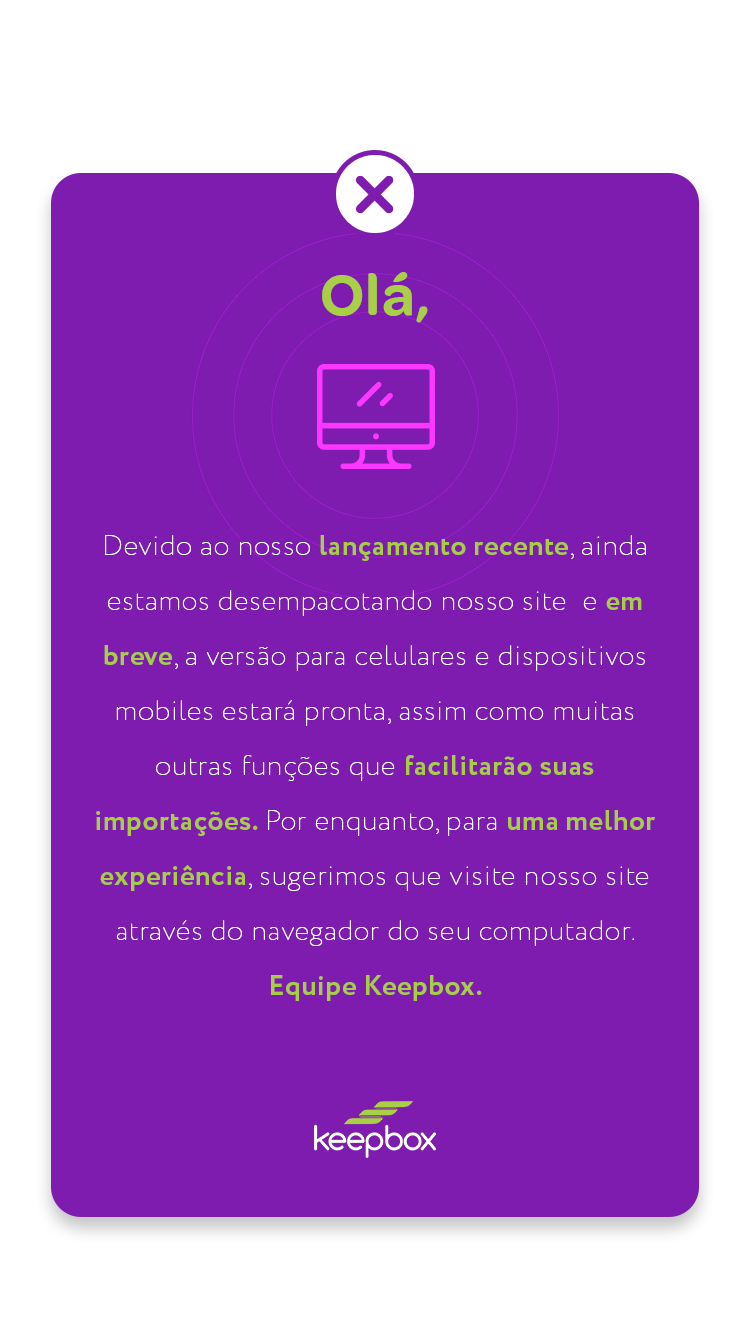
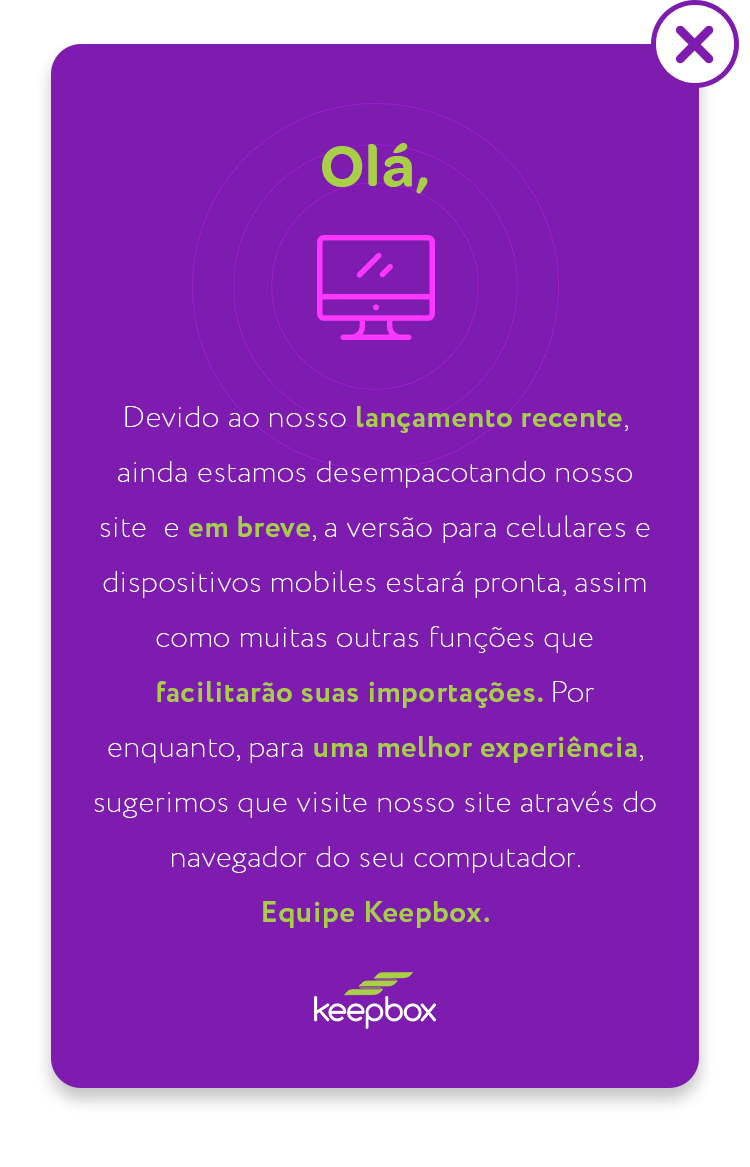
ajustes

diff --git a/public/assets/metronic/custom/css/Website/Home/HomePage.css b/public/assets/metronic/custom/css/Website/Home/HomePage.css
@@ -453,8 +453,8 @@ body{
     width: 290px;
     background-position-y:  center;
 
-    -webkit-appearance: none;  /* Remove estilo padrÃƒÆ’Ã†â€™Ãƒâ€ Ã¢â‚¬â„¢ÃƒÆ’Ã¢â‚¬Å¡Ãƒâ€šÃ‚Â£o do Chrome */
-    -moz-appearance: none; /* Remove estilo padrÃƒÆ’Ã†â€™Ãƒâ€ Ã¢â‚¬â„¢ÃƒÆ’Ã¢â‚¬Å¡Ãƒâ€šÃ‚Â£o do FireFox */
+    -webkit-appearance: none;  /* Remove estilo padrÃƒÆ’Ã†â€™Ãƒâ€ Ã¢â‚¬â„¢ÃƒÆ’Ã¢â‚¬Â ÃƒÂ¢Ã¢â€šÂ¬Ã¢â€žÂ¢ÃƒÆ’Ã†â€™ÃƒÂ¢Ã¢â€šÂ¬Ã…Â¡ÃƒÆ’Ã¢â‚¬Å¡Ãƒâ€šÃ‚Â£o do Chrome */
+    -moz-appearance: none; /* Remove estilo padrÃƒÆ’Ã†â€™Ãƒâ€ Ã¢â‚¬â„¢ÃƒÆ’Ã¢â‚¬Â ÃƒÂ¢Ã¢â€šÂ¬Ã¢â€žÂ¢ÃƒÆ’Ã†â€™ÃƒÂ¢Ã¢â€šÂ¬Ã…Â¡ÃƒÆ’Ã¢â‚¬Å¡Ãƒâ€šÃ‚Â£o do FireFox */
     appearance: none
 }
 
@@ -462,8 +462,8 @@ body{
     height: 56px;
     width: 167px;
     float: left;
-    -webkit-appearance: none;  /* Remove estilo padrÃƒÆ’Ã†â€™Ãƒâ€ Ã¢â‚¬â„¢ÃƒÆ’Ã¢â‚¬Å¡Ãƒâ€šÃ‚Â£o do Chrome */
-    -moz-appearance: none; /* Remove estilo padrÃƒÆ’Ã†â€™Ãƒâ€ Ã¢â‚¬â„¢ÃƒÆ’Ã¢â‚¬Å¡Ãƒâ€šÃ‚Â£o do FireFox */
+    -webkit-appearance: none;  /* Remove estilo padrÃƒÆ’Ã†â€™Ãƒâ€ Ã¢â‚¬â„¢ÃƒÆ’Ã¢â‚¬Â ÃƒÂ¢Ã¢â€šÂ¬Ã¢â€žÂ¢ÃƒÆ’Ã†â€™ÃƒÂ¢Ã¢â€šÂ¬Ã…Â¡ÃƒÆ’Ã¢â‚¬Å¡Ãƒâ€šÃ‚Â£o do Chrome */
+    -moz-appearance: none; /* Remove estilo padrÃƒÆ’Ã†â€™Ãƒâ€ Ã¢â‚¬â„¢ÃƒÆ’Ã¢â‚¬Â ÃƒÂ¢Ã¢â€šÂ¬Ã¢â€žÂ¢ÃƒÆ’Ã†â€™ÃƒÂ¢Ã¢â€šÂ¬Ã…Â¡ÃƒÆ’Ã¢â‚¬Å¡Ãƒâ€šÃ‚Â£o do FireFox */
     appearance: none
 }
 
@@ -713,7 +713,7 @@ body{
     margin: auto;
     /* padding: 20px; */
     /* border: 1px solid #888; */
-    width: 100%;
+    width: 57%;
     height: 100%;
     /* padding-bottom: 40px; */
     background-repeat:  no-repeat;
@@ -721,6 +721,8 @@ body{
     background-position-x: center;
     background-size:  contain;
     background-position-y: top;
+    display: flex;
+    justify-content: flex-end;
 }
 @media only screen
 and (device-width : 375px)
@@ -730,18 +732,20 @@ and (-webkit-device-pixel-ratio : 3) {
         margin: 0;
         /* padding: 20px; */
         /* border: 1px solid #888; */
-        width: 70%;
+        width: 60%;
         height: 100%;
         /* padding-bottom: 40px; */
         background-repeat:  no-repeat;
         background-color:  transparent;
         background-size:  contain;
         background-position-y: top;
+        display: flex;
+        justify-content: flex-end;
     }
 }
 .close-ini-mo{
-    width: 150px;
-    height: 150px;
+    width: 200px;
+    height: 200px;
 }
 
 /*@media screen and (max-width: 2000px) {*/

diff --git a/application/views/Keep/Home/Home.php b/application/views/Keep/Home/Home.php
@@ -465,7 +465,7 @@
     </div>
     </div>
     <!-- Modal content -->
-    <div ng-show="mobile == true" class="modal-content-jquery-ini-mo align-x-center" style="background-image: url('<?= base_url() ?>public/assets/metronic/custom/img/photo/mobile.png')">
+    <div ng-show="mobile == true" class="modal-content-jquery-ini-mo " style="background-image: url('<?= base_url() ?>public/assets/metronic/custom/img/photo/banner_mobile.png')">
         <div class="close-ini-mo pointer">
 
         </div>
